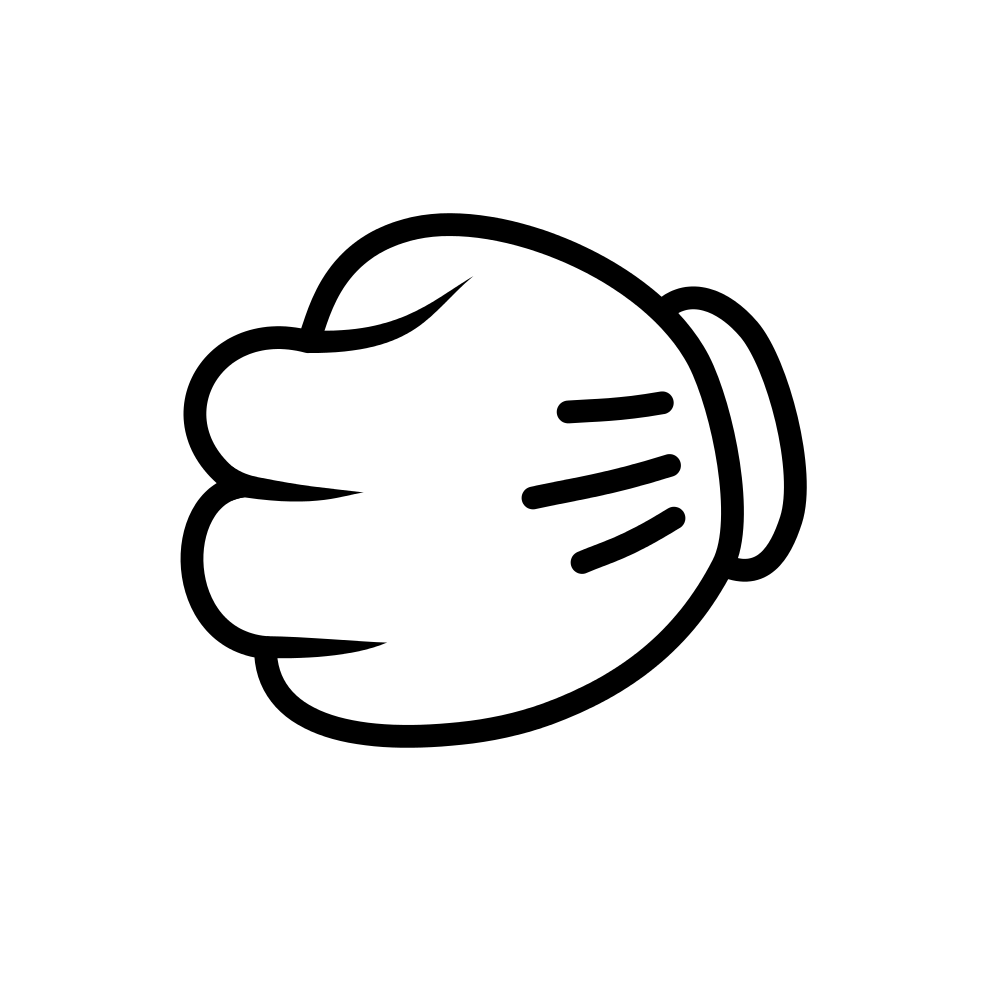
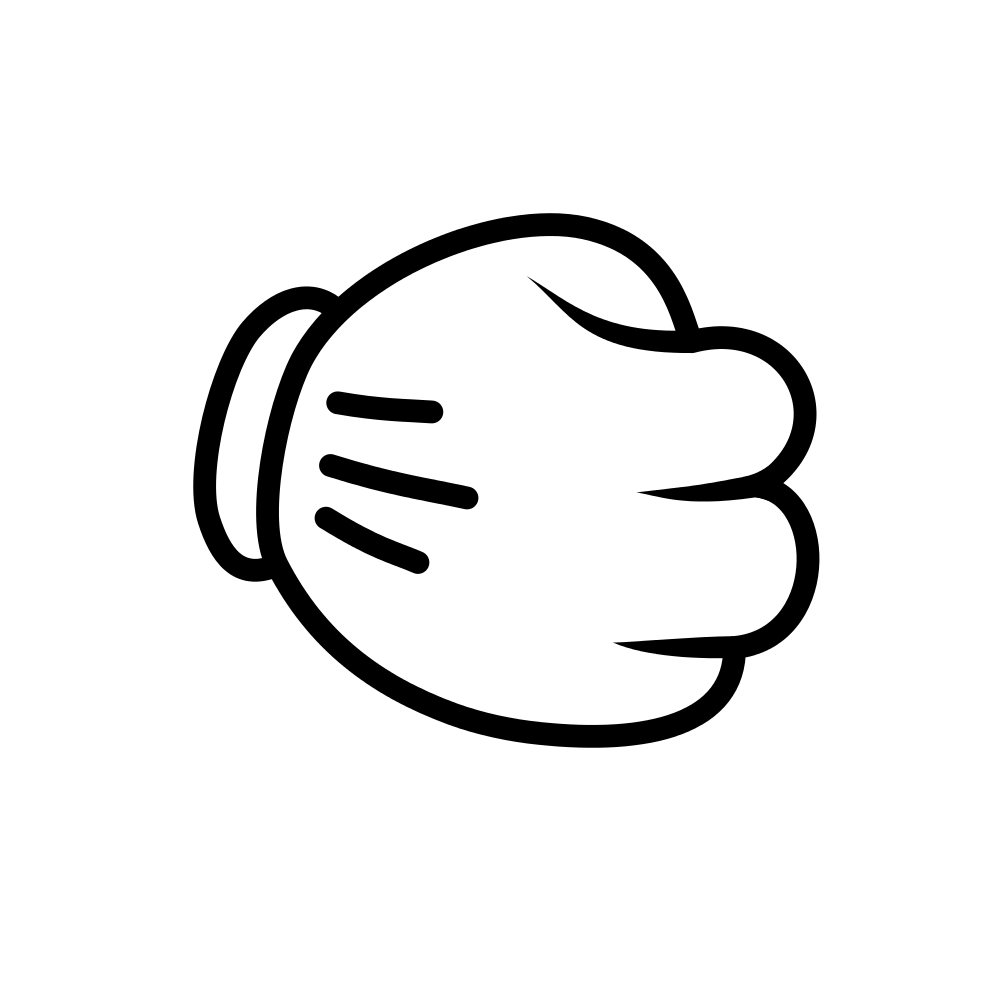
Enhance UI
Made the hands reactive on click & flipped the Computer Hands

Changed region(s): [[0.155, 0.186, 0.837, 0.775]]

diff --git a/script.js b/script.js
@@ -1,15 +1,15 @@
 function getComputerChoice() {
     let randNum = Math.random();
     if (randNum <= 0.33) {
-        computerHand.src = "./images/rock.png"
+        computerHand.src = "./images/rock.png";
         return "rock";
     } 
     else if (randNum > 0.33 && randNum < 0.66) {
-        computerHand.src = "./images/paper.png"
+        computerHand.src = "./images/paper.png";
         return "paper";
     } 
     else if (randNum >= 0.66) {
-        computerHand.src = "./images/scissors.png"
+        computerHand.src = "./images/scissors.png";
         return "scissors";
     }
 }

diff --git a/style.css b/style.css
@@ -47,6 +47,8 @@ body {
 
 #computerHand {
     margin-top: 0px;
+    -webkit-transform: scaleX(-1);
+    transform: scaleX(-1);
 }
 
 .computer {
@@ -87,6 +89,11 @@ body {
 .hand:hover {
     filter: brightness(95%);
     transform: scale(1.15);
+}
+
+.hand:active {
+    filter: brightness(90%);
+    transform: scale(1.05);
 }
 
 .computerIcon {
